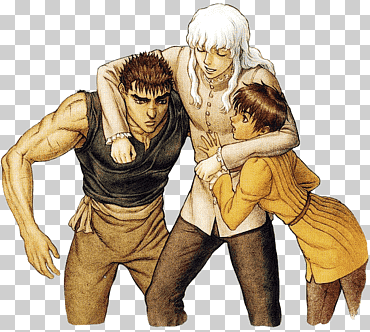
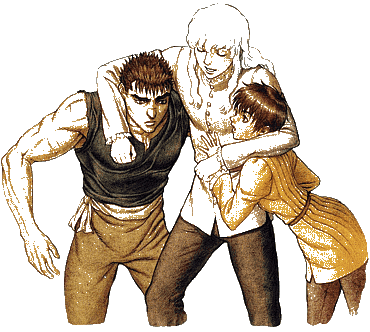
20/01

diff --git a/index.html b/index.html
@@ -4,22 +4,31 @@
     <meta charset="UTF-8">
     <meta http-equiv="X-UA-Compatible" content="IE=edge">
     <meta name="viewport" content="width=device-width, initial-scale=1.0">
-    <title>I hate griffith</title>
+    <title>I HATE GRIFITTH</title>
 </head>
 <body>
-    <header>
+    <header class="header_">
         <a> 
-
+            <img class="logo" src="./src/iconberserk.png" alt="logo berserk">
         </a>
-        <nav>
+        <nav >
+            <ul class="menu"> 
+                <li>Home</li>
+                <li>Compre o mangá</li>
+                <li>Details</li>
+
+            </ul>
 
         </nav>
     </header>
-    <main>
-        <div>
-
+    <main class="container">
+        <div class="information">
+            <img  class="img-title"  src="./src/titulo.png" alt="Berserk titulo">
+            <p class="description">Lorem ipsum dolor sit amet consectetur adipisicing elit. Aliquam et repellat impedit veniam quia aspernatur facere totam numquam provident illo architecto reprehenderit ab culpa asperiores alias, earum iure dolor assumenda!</p>
+            <button class="button">Compre o mangá</button>
         </div>
-        <img >
+        <img class="gutts"
+        src="./src/3amigos.png">
     </main>
 </body>
 </html>
